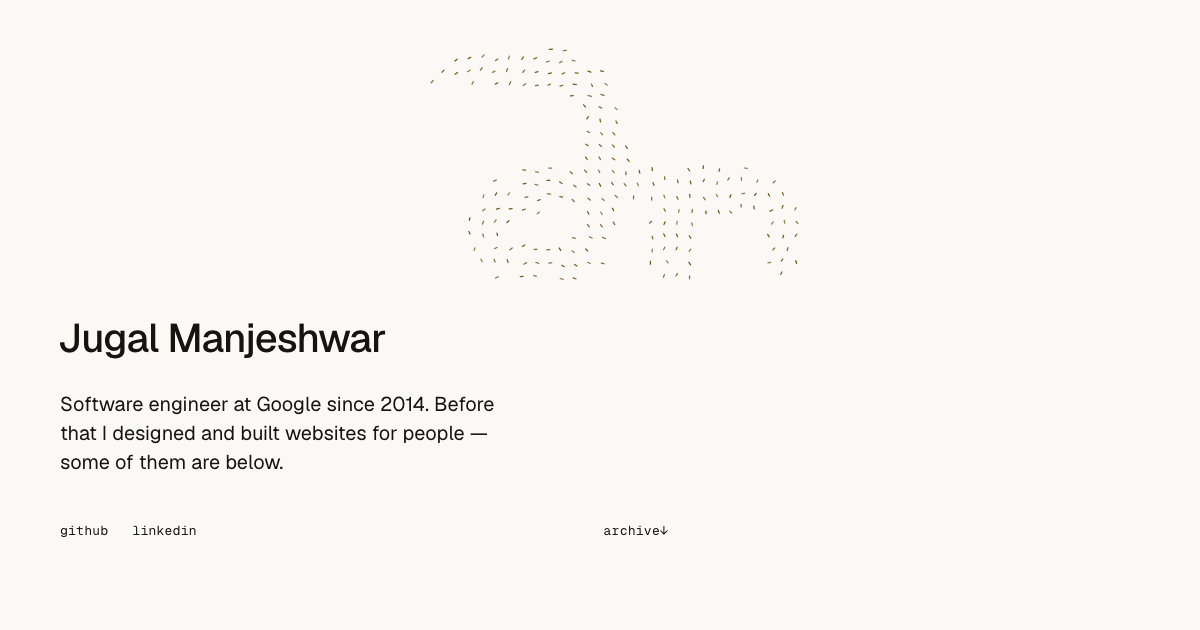
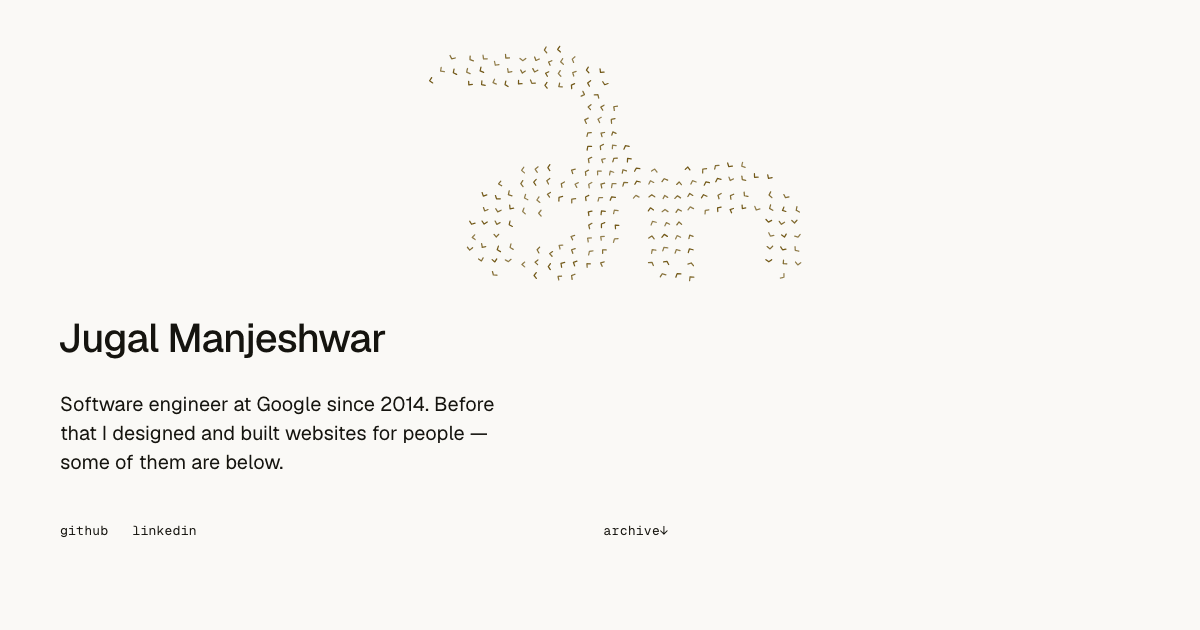
Birds, not strokes — and fix the vanishing-on-hover bug
The renderer's opacity buckets dropped any boid whose near-pointer boost
capped at exactly 1.0 (o >= hi excluded it from the last bucket), which made
birds close to the cursor disappear instead of fleeing. Clamp to 0.999.

Each boid now draws as a baseless triangle — head at its position, two wing
arms swept back — with a fully procedural wingbeat: phase advances with
speed (slow flutter at rest, ~6 Hz fleeing), a skewed waveform gives a quick
downstroke and slower upstroke, arms beat fore/aft around their resting
sweep and foreshorten at the stroke extremes. Perched birds face up with
wings folded. The no-JS still and OG image are regenerated with the same
geometry via the exported wingTips().

diff --git a/index.html b/index.html
@@ -6,7 +6,8 @@
   Hello. You're looking at the source of a very small site with a lot of care in it.
 
   There are three files that matter: this one, css/style.css, and js/main.js.
-  js/flock.js is the flock — a boids simulation drawn as ink strokes — and it
+  js/flock.js is the flock — a boids simulation drawn as small birds, each a
+  baseless triangle with a procedural wingbeat — and it
   runs inside a Worker on an OffscreenCanvas so scrolling never waits on it.
   The rules are separation, alignment, cohesion, and you.
 
@@ -49,7 +50,7 @@
 <canvas id="flock" aria-hidden="true"></canvas>
 <!-- Without script, a still of a seeded flock so the page is never blank. -->
 <!--STILL-->
-<svg class="still" viewBox="0 0 1440 900" preserveAspectRatio="xMidYMid slice" aria-hidden="true" focusable="false"><line x1="929.9" y1="264.0" x2="931.9" y2="261.8" opacity="0.75"/><line x1="604.4" y1="293.6" x2="606.5" y2="295.2" opacity="0.95"/><line x1="775.9" y1="223.8" x2="774.3" y2="225.9" opacity="0.94"/><line x1="605.9" y1="122.5" x2="605.0" y2="125.1" opacity="0.92"/><line x1="689.4" y1="122.6" x2="689.5" y2="125.3" opacity="0.85"/><line x1="790.9" y1="238.7" x2="788.2" y2="239.7" opacity="0.78"/><line x1="723.5" y1="251.4" x2="722.1" y2="253.9" opacity="0.71"/><line x1="914.2" y1="254.3" x2="913.8" y2="251.5" opacity="0.83"/><line x1="833.6" y1="253.1" x2="830.9" y2="252.5" opacity="0.85"/><line x1="884.8" y1="269.0" x2="883.6" y2="266.3" opacity="0.93"/><line x1="650.4" y1="305.6" x2="649.9" y2="303.1" opacity="0.81"/><line x1="690.0" y1="310.9" x2="689.0" y2="313.6" opacity="0.71"/><line x1="635.8" y1="335.2" x2="634.0" y2="337.0" opacity="0.91"/><line x1="719.5" y1="224.1" x2="717.2" y2="225.6" opacity="0.74"/><line x1="593.7" y1="264.3" x2="596.6" y2="264.7" opacity="0.69"/><line x1="819.1" y1="267.1" x2="816.3" y2="268.0" opacity="0.83"/><line x1="915.6" y1="336.0" x2="918.0" y2="334.2" opacity="0.82"/><line x1="706.1" y1="136.7" x2="705.6" y2="139.5" opacity="0.78"/><line x1="706.5" y1="108.6" x2="704.7" y2="110.5" opacity="0.91"/><line x1="710.6" y1="293.7" x2="710.2" y2="296.4" opacity="0.68"/><line x1="634.8" y1="308.2" x2="637.5" y2="308.0" opacity="0.93"/><line x1="791.1" y1="252.1" x2="789.2" y2="254.1" opacity="0.70"/><line x1="663.2" y1="84.0" x2="660.8" y2="85.4" opacity="0.94"/><line x1="845.7" y1="238.6" x2="842.9" y2="239.3" opacity="0.74"/><line x1="720.2" y1="236.3" x2="718.1" y2="238.0" opacity="0.88"/><line x1="804.2" y1="295.2" x2="802.1" y2="296.9" opacity="0.95"/><line x1="873.4" y1="252.3" x2="873.0" y2="249.5" opacity="0.69"/><line x1="920.0" y1="306.9" x2="922.3" y2="305.6" opacity="0.75"/><line x1="674.7" y1="99.0" x2="673.6" y2="101.6" opacity="0.72"/><line x1="778.4" y1="236.2" x2="775.8" y2="237.3" opacity="0.88"/><line x1="719.5" y1="108.8" x2="718.2" y2="111.1" opacity="0.90"/><line x1="709.5" y1="251.4" x2="708.4" y2="253.9" opacity="0.77"/><line x1="707.8" y1="280.1" x2="706.1" y2="282.4" opacity="0.79"/><line x1="706.6" y1="196.8" x2="705.0" y2="199.1" opacity="0.76"/><line x1="690.4" y1="109.0" x2="687.8" y2="110.4" opacity="0.91"/><line x1="651.8" y1="219.9" x2="653.8" y2="222.0" opacity="0.72"/><line x1="737.5" y1="252.2" x2="735.6" y2="254.2" opacity="0.74"/><line x1="848.8" y1="224.4" x2="845.9" y2="224.8" opacity="0.93"/><line x1="717.9" y1="169.6" x2="715.2" y2="170.1" opacity="0.95"/><line x1="778.2" y1="295.4" x2="777.1" y2="298.0" opacity="0.80"/><line x1="720.0" y1="211.0" x2="718.8" y2="213.4" opacity="0.76"/><line x1="834.3" y1="268.9" x2="831.6" y2="270.3" opacity="0.92"/><line x1="692.7" y1="293.2" x2="693.0" y2="296.1" opacity="0.69"/><line x1="581.7" y1="306.3" x2="584.1" y2="307.5" opacity="0.74"/><line x1="916.1" y1="322.2" x2="918.1" y2="320.1" opacity="0.78"/><line x1="733.3" y1="226.4" x2="731.5" y2="228.6" opacity="0.71"/><line x1="777.4" y1="255.1" x2="775.1" y2="257.1" opacity="0.76"/><line x1="929.4" y1="280.5" x2="929.5" y2="277.8" opacity="0.74"/><line x1="590.4" y1="113.2" x2="591.8" y2="115.5" opacity="0.81"/><line x1="677.2" y1="321.3" x2="674.7" y2="322.5" opacity="0.84"/><line x1="819.8" y1="280.3" x2="817.1" y2="281.2" opacity="0.71"/><line x1="776.3" y1="282.7" x2="774.3" y2="284.9" opacity="0.80"/><line x1="637.6" y1="321.4" x2="635.1" y2="322.7" opacity="0.73"/><line x1="589.7" y1="323.8" x2="590.9" y2="326.2" opacity="0.71"/><line x1="633.2" y1="112.4" x2="631.4" y2="114.7" opacity="0.84"/><line x1="790.6" y1="282.5" x2="788.3" y2="284.2" opacity="0.93"/><line x1="930.0" y1="294.0" x2="931.9" y2="291.9" opacity="0.77"/><line x1="805.3" y1="267.2" x2="803.0" y2="268.9" opacity="0.72"/><line x1="735.6" y1="195.8" x2="733.6" y2="197.7" opacity="0.84"/><line x1="875.4" y1="223.8" x2="873.6" y2="221.6" opacity="0.71"/><line x1="917.2" y1="293.8" x2="919.7" y2="292.7" opacity="0.93"/><line x1="790.0" y1="311.6" x2="787.9" y2="313.5" opacity="0.70"/><line x1="592.1" y1="98.6" x2="592.6" y2="101.3" opacity="0.72"/><line x1="663.7" y1="226.1" x2="665.1" y2="228.5" opacity="0.72"/><line x1="605.4" y1="95.8" x2="605.2" y2="98.5" opacity="0.83"/><line x1="703.5" y1="155.7" x2="700.7" y2="156.6" opacity="0.90"/><line x1="690.3" y1="324.1" x2="688.1" y2="326.1" opacity="0.86"/><line x1="900.8" y1="294.8" x2="902.7" y2="292.6" opacity="0.85"/><line x1="606.0" y1="306.7" x2="608.9" y2="307.1" opacity="0.74"/><line x1="618.8" y1="126.8" x2="617.5" y2="129.5" opacity="0.79"/><line x1="803.7" y1="340.1" x2="801.6" y2="342.3" opacity="0.83"/><line x1="649.1" y1="122.5" x2="647.7" y2="125.0" opacity="0.79"/><line x1="562.3" y1="96.8" x2="562.2" y2="99.7" opacity="0.86"/><line x1="692.7" y1="336.8" x2="692.0" y2="339.5" opacity="0.83"/><line x1="818.5" y1="293.9" x2="817.4" y2="296.4" opacity="0.87"/><line x1="847.8" y1="266.8" x2="845.6" y2="265.2" opacity="0.89"/><line x1="719.1" y1="137.7" x2="718.1" y2="140.2" opacity="0.76"/><line x1="903.8" y1="278.2" x2="904.4" y2="275.4" opacity="0.75"/><line x1="650.8" y1="319.5" x2="648.9" y2="321.3" opacity="0.87"/><line x1="648.3" y1="109.5" x2="648.1" y2="112.2" opacity="0.95"/><line x1="930.0" y1="323.4" x2="932.7" y2="323.8" opacity="0.90"/><line x1="817.9" y1="336.5" x2="817.8" y2="339.3" opacity="0.83"/><line x1="604.7" y1="278.5" x2="607.5" y2="278.1" opacity="0.70"/><line x1="679.5" y1="334.7" x2="678.3" y2="337.1" opacity="0.70"/><line x1="817.7" y1="222.8" x2="815.2" y2="223.6" opacity="0.83"/><line x1="606.5" y1="232.3" x2="609.5" y2="232.6" opacity="0.78"/><line x1="650.2" y1="267.0" x2="650.9" y2="269.8" opacity="0.71"/><line x1="663.3" y1="253.8" x2="665.2" y2="255.7" opacity="0.79"/><line x1="858.3" y1="239.5" x2="856.1" y2="237.8" opacity="0.84"/><line x1="762.1" y1="235.6" x2="761.4" y2="238.3" opacity="0.72"/><line x1="638.5" y1="221.8" x2="640.6" y2="223.8" opacity="0.78"/><line x1="661.0" y1="127.5" x2="658.9" y2="129.4" opacity="0.75"/><line x1="664.5" y1="305.9" x2="663.7" y2="308.4" opacity="0.80"/><line x1="590.5" y1="251.4" x2="592.4" y2="253.4" opacity="0.71"/><line x1="720.2" y1="183.5" x2="717.7" y2="185.2" opacity="0.75"/><line x1="886.3" y1="252.2" x2="886.0" y2="249.3" opacity="0.93"/><line x1="578.0" y1="278.3" x2="580.6" y2="277.0" opacity="0.87"/><line x1="733.4" y1="153.1" x2="730.9" y2="154.7" opacity="0.70"/><line x1="662.5" y1="239.3" x2="664.0" y2="241.7" opacity="0.94"/><line x1="778.0" y1="308.6" x2="776.3" y2="310.9" opacity="0.69"/><line x1="661.9" y1="109.3" x2="661.3" y2="112.0" opacity="0.92"/><line x1="674.7" y1="112.2" x2="673.3" y2="114.7" opacity="0.81"/><line x1="632.7" y1="99.5" x2="631.5" y2="102.1" opacity="0.76"/><line x1="636.8" y1="235.0" x2="638.0" y2="237.6" opacity="0.93"/><line x1="636.1" y1="125.1" x2="634.9" y2="127.7" opacity="0.69"/><line x1="719.9" y1="198.0" x2="717.9" y2="199.9" opacity="0.76"/><line x1="791.0" y1="296.6" x2="789.0" y2="298.5" opacity="0.86"/><line x1="603.9" y1="108.9" x2="605.5" y2="111.2" opacity="0.74"/><line x1="860.2" y1="267.1" x2="857.9" y2="265.7" opacity="0.69"/><line x1="563.3" y1="110.0" x2="563.4" y2="112.8" opacity="0.95"/><line x1="791.4" y1="265.9" x2="788.9" y2="266.9" opacity="0.76"/><line x1="603.2" y1="322.5" x2="605.6" y2="323.5" opacity="0.81"/><line x1="617.7" y1="100.5" x2="616.8" y2="103.2" opacity="0.72"/><line x1="662.9" y1="325.6" x2="661.0" y2="327.8" opacity="0.77"/><line x1="635.5" y1="265.5" x2="638.4" y2="265.3" opacity="0.84"/><line x1="794.7" y1="323.8" x2="792.5" y2="325.3" opacity="0.71"/><line x1="677.0" y1="234.0" x2="678.0" y2="236.6" opacity="0.77"/><line x1="804.7" y1="251.7" x2="803.7" y2="254.4" opacity="0.84"/><line x1="871.9" y1="268.8" x2="870.6" y2="266.1" opacity="0.75"/><line x1="758.2" y1="255.3" x2="755.7" y2="256.4" opacity="0.77"/><line x1="661.7" y1="96.5" x2="660.7" y2="99.1" opacity="0.73"/><line x1="916.6" y1="267.9" x2="917.5" y2="265.1" opacity="0.95"/><line x1="724.5" y1="295.2" x2="724.1" y2="297.9" opacity="0.76"/><line x1="904.3" y1="264.9" x2="904.4" y2="262.1" opacity="0.80"/><line x1="608.1" y1="264.5" x2="610.9" y2="264.6" opacity="0.87"/><line x1="675.9" y1="124.7" x2="676.0" y2="127.5" opacity="0.82"/><line x1="817.4" y1="254.2" x2="814.9" y2="255.5" opacity="0.88"/><line x1="621.8" y1="264.0" x2="624.7" y2="263.8" opacity="0.86"/><line x1="676.8" y1="85.6" x2="674.8" y2="87.6" opacity="0.71"/><line x1="591.8" y1="281.1" x2="594.2" y2="282.6" opacity="0.79"/><line x1="762.2" y1="222.2" x2="759.7" y2="223.8" opacity="0.94"/><line x1="620.8" y1="305.3" x2="622.2" y2="307.7" opacity="0.78"/><line x1="860.1" y1="253.9" x2="857.2" y2="253.5" opacity="0.94"/><line x1="705.6" y1="325.8" x2="703.7" y2="327.9" opacity="0.70"/><line x1="900.1" y1="253.1" x2="899.5" y2="250.4" opacity="0.87"/><line x1="645.9" y1="97.3" x2="645.6" y2="100.0" opacity="0.89"/><line x1="803.6" y1="281.3" x2="801.4" y2="283.1" opacity="0.71"/><line x1="733.8" y1="268.3" x2="731.3" y2="269.2" opacity="0.93"/><line x1="578.1" y1="125.8" x2="577.7" y2="128.7" opacity="0.74"/><line x1="902.9" y1="319.8" x2="905.5" y2="318.5" opacity="0.70"/><line x1="871.4" y1="238.0" x2="869.2" y2="236.0" opacity="0.73"/><line x1="535.5" y1="124.8" x2="535.8" y2="127.6" opacity="0.74"/><line x1="676.9" y1="255.2" x2="677.2" y2="258.0" opacity="0.87"/><line x1="603.7" y1="252.1" x2="606.5" y2="252.5" opacity="0.86"/><line x1="649.6" y1="336.0" x2="650.1" y2="333.4" opacity="0.74"/><line x1="820.2" y1="323.0" x2="819.9" y2="325.8" opacity="0.86"/><line x1="590.4" y1="295.7" x2="592.6" y2="297.4" opacity="0.76"/><line x1="747.9" y1="224.8" x2="745.6" y2="226.7" opacity="0.84"/><line x1="905.4" y1="233.6" x2="904.1" y2="231.1" opacity="0.73"/><line x1="548.7" y1="110.7" x2="548.6" y2="113.5" opacity="0.80"/><line x1="733.4" y1="284.0" x2="731.4" y2="285.9" opacity="0.79"/><line x1="720.6" y1="266.4" x2="719.1" y2="269.0" opacity="0.74"/><line x1="818.6" y1="236.0" x2="816.0" y2="236.4" opacity="0.90"/><line x1="650.9" y1="250.3" x2="651.2" y2="253.2" opacity="0.78"/><line x1="733.3" y1="181.3" x2="732.9" y2="184.0" opacity="0.76"/><line x1="707.2" y1="238.0" x2="705.7" y2="240.4" opacity="0.78"/><line x1="704.1" y1="170.6" x2="701.3" y2="171.6" opacity="0.87"/><line x1="719.6" y1="325.6" x2="718.1" y2="328.1" opacity="0.84"/><line x1="705.7" y1="311.4" x2="704.1" y2="313.6" opacity="0.91"/><line x1="706.9" y1="266.9" x2="705.5" y2="269.5" opacity="0.78"/><line x1="720.3" y1="282.5" x2="718.5" y2="284.8" opacity="0.83"/><line x1="832.1" y1="239.8" x2="829.2" y2="239.7" opacity="0.77"/><line x1="608.5" y1="334.6" x2="611.1" y2="335.7" opacity="0.81"/><line x1="789.9" y1="340.0" x2="787.9" y2="342.2" opacity="0.79"/><line x1="706.6" y1="122.8" x2="704.1" y2="124.4" opacity="0.76"/><line x1="749.4" y1="195.3" x2="748.1" y2="197.9" opacity="0.89"/><line x1="803.0" y1="311.0" x2="800.3" y2="311.4" opacity="0.76"/><line x1="685.5" y1="140.6" x2="683.2" y2="142.2" opacity="0.89"/><line x1="749.3" y1="209.3" x2="747.3" y2="211.4" opacity="0.90"/><line x1="578.0" y1="96.3" x2="579.2" y2="98.8" opacity="0.89"/><line x1="719.2" y1="151.3" x2="716.9" y2="153.0" opacity="0.81"/><line x1="691.7" y1="235.6" x2="690.4" y2="238.2" opacity="0.84"/><line x1="650.1" y1="233.6" x2="652.2" y2="235.4" opacity="0.74"/><line x1="776.5" y1="324.8" x2="774.5" y2="326.5" opacity="0.94"/><line x1="616.6" y1="113.7" x2="616.3" y2="116.7" opacity="0.85"/><line x1="704.5" y1="184.0" x2="702.1" y2="185.6" opacity="0.77"/><line x1="677.0" y1="307.9" x2="676.5" y2="310.5" opacity="0.87"/><line x1="687.4" y1="96.4" x2="685.4" y2="98.2" opacity="0.76"/><line x1="735.2" y1="209.4" x2="733.3" y2="211.5" opacity="0.80"/><line x1="832.4" y1="226.6" x2="829.7" y2="226.3" opacity="0.94"/><line x1="705.2" y1="212.2" x2="703.3" y2="214.3" opacity="0.94"/><line x1="732.5" y1="239.8" x2="730.8" y2="242.1" opacity="0.78"/><line x1="576.4" y1="294.0" x2="579.0" y2="293.1" opacity="0.93"/><line x1="617.2" y1="251.1" x2="620.0" y2="251.0" opacity="0.69"/><line x1="720.3" y1="123.7" x2="717.6" y2="124.9" opacity="0.69"/><line x1="846.3" y1="253.8" x2="843.8" y2="252.5" opacity="0.70"/><line x1="637.6" y1="248.9" x2="638.9" y2="251.3" opacity="0.78"/><line x1="886.9" y1="235.2" x2="884.1" y2="234.3" opacity="0.70"/><line x1="691.9" y1="250.4" x2="692.8" y2="253.1" opacity="0.82"/><line x1="705.9" y1="225.0" x2="705.0" y2="227.6" opacity="0.81"/><line x1="616.8" y1="323.6" x2="619.1" y2="325.0" opacity="0.86"/><line x1="691.3" y1="222.1" x2="691.6" y2="225.1" opacity="0.81"/><line x1="618.5" y1="277.9" x2="621.4" y2="277.8" opacity="0.87"/><line x1="805.5" y1="235.2" x2="802.8" y2="235.8" opacity="0.76"/><line x1="746.0" y1="239.1" x2="744.1" y2="241.2" opacity="0.82"/><line x1="916.1" y1="281.1" x2="916.6" y2="278.4" opacity="0.71"/><line x1="733.9" y1="167.4" x2="731.3" y2="168.9" opacity="0.76"/><line x1="816.6" y1="310.5" x2="814.8" y2="312.8" opacity="0.72"/><line x1="577.6" y1="109.4" x2="578.9" y2="111.9" opacity="0.69"/><line x1="906.5" y1="306.4" x2="907.5" y2="303.8" opacity="0.76"/></svg>
+<svg class="still" viewBox="0 0 1440 900" preserveAspectRatio="xMidYMid slice" aria-hidden="true" focusable="false"><polyline points="673.5,106.3 670.8,108.9 672.8,112.2" opacity="0.75"/><polyline points="911.2,293.3 912.1,289.9 908.6,289.4" opacity="0.95"/><polyline points="631.9,122.2 628.6,123.8 630.4,126.9" opacity="0.94"/><polyline points="855.3,264.2 855.0,260.7 851.5,261.3" opacity="0.92"/><polyline points="619.6,273.8 616.3,275.3 616.8,279.0" opacity="0.85"/><polyline points="737.6,219.0 739.5,221.9 742.2,219.6" opacity="0.78"/><polyline points="617.8,110.8 615.0,108.4 612.6,111.3" opacity="0.71"/><polyline points="696.0,180.2 699.5,180.5 700.9,177.3" opacity="0.83"/><polyline points="913.1,319.8 913.6,316.3 910.0,316.1" opacity="0.85"/><polyline points="750.3,233.9 753.6,235.5 755.9,232.7" opacity="0.93"/><polyline points="591.8,302.1 588.1,302.4 588.6,306.0" opacity="0.81"/><polyline points="615.5,323.3 612.7,321.1 609.7,323.1" opacity="0.71"/><polyline points="914.4,263.0 912.8,259.9 909.8,261.8" opacity="0.91"/><polyline points="808.7,263.4 811.9,265.3 814.3,262.5" opacity="0.74"/><polyline points="724.7,231.3 728.4,231.9 729.5,228.4" opacity="0.69"/><polyline points="713.1,175.5 714.5,178.8 717.6,177.1" opacity="0.83"/><polyline points="784.8,330.6 784.8,334.4 788.4,335.5" opacity="0.82"/><polyline points="815.8,329.1 815.0,332.8 818.7,333.8" opacity="0.78"/><polyline points="800.7,328.5 801.4,332.1 805.2,332.4" opacity="0.91"/><polyline points="648.5,221.6 645.7,219.2 643.1,221.8" opacity="0.68"/><polyline points="782.1,290.0 784.3,293.1 787.6,291.3" opacity="0.93"/><polyline points="799.9,301.2 799.6,305.1 803.4,305.7" opacity="0.70"/><polyline points="535.6,120.5 532.0,121.4 532.8,125.0" opacity="0.94"/><polyline points="924.3,293.3 925.6,290.0 923.0,287.6" opacity="0.74"/><polyline points="813.9,300.0 813.4,303.8 817.2,304.6" opacity="0.88"/><polyline points="867.8,265.2 868.0,261.6 864.5,261.9" opacity="0.95"/><polyline points="771.2,275.4 773.3,278.4 776.7,276.8" opacity="0.69"/><polyline points="913.7,249.4 913.9,245.8 910.5,244.4" opacity="0.75"/><polyline points="828.8,268.7 827.8,265.1 824.0,265.3" opacity="0.72"/><polyline points="829.7,234.4 828.0,231.1 824.4,231.9" opacity="0.88"/><polyline points="725.1,245.7 727.3,248.6 730.6,247.1" opacity="0.90"/><polyline points="913.4,277.0 912.3,273.5 908.7,274.3" opacity="0.77"/><polyline points="671.7,234.4 672.2,230.9 669.0,229.3" opacity="0.79"/><polyline points="855.3,250.6 854.8,247.0 851.2,246.4" opacity="0.76"/><polyline points="675.3,321.0 673.5,317.7 670.0,319.2" opacity="0.91"/><polyline points="576.7,106.5 573.1,107.8 573.7,111.6" opacity="0.72"/><polyline points="675.0,94.4 671.7,96.0 672.8,99.6" opacity="0.74"/><polyline points="662.2,320.3 659.8,317.7 656.4,319.1" opacity="0.93"/><polyline points="823.8,252.8 827.1,251.1 826.0,247.7" opacity="0.95"/><polyline points="843.7,251.8 841.6,248.7 838.0,249.9" opacity="0.80"/><polyline points="603.2,332.7 599.7,333.2 599.1,336.6" opacity="0.76"/><polyline points="576.2,278.7 573.7,275.9 570.4,277.6" opacity="0.92"/><polyline points="899.0,292.6 899.1,288.9 895.7,287.8" opacity="0.69"/><polyline points="730.3,294.4 730.8,290.8 727.7,289.2" opacity="0.74"/><polyline points="645.1,122.0 642.3,124.4 643.8,127.7" opacity="0.78"/><polyline points="910.5,337.3 911.2,333.7 907.9,332.0" opacity="0.71"/><polyline points="769.3,289.6 770.7,293.0 774.2,291.8" opacity="0.76"/><polyline points="853.7,237.6 853.2,234.0 849.7,234.9" opacity="0.74"/><polyline points="587.6,323.0 585.3,320.3 582.9,322.9" opacity="0.81"/><polyline points="648.4,305.8 645.7,303.4 642.5,305.2" opacity="0.84"/><polyline points="703.6,293.7 703.2,290.1 699.6,290.9" opacity="0.71"/><polyline points="766.8,253.0 770.2,251.7 769.9,248.1" opacity="0.80"/><polyline points="812.9,238.3 813.5,234.5 809.8,233.6" opacity="0.73"/><polyline points="748.8,254.5 752.1,253.0 751.6,249.5" opacity="0.71"/><polyline points="646.6,112.2 643.3,110.5 641.7,113.8" opacity="0.84"/><polyline points="700.5,268.3 701.4,264.6 697.8,263.5" opacity="0.93"/><polyline points="724.8,175.6 727.6,177.8 729.4,174.7" opacity="0.77"/><polyline points="927.7,320.9 927.4,317.1 923.7,317.4" opacity="0.72"/><polyline points="898.8,263.9 899.7,260.4 896.6,258.7" opacity="0.84"/><polyline points="801.0,287.8 801.1,291.6 804.8,291.5" opacity="0.71"/><polyline points="696.4,194.5 699.9,193.5 699.5,189.8" opacity="0.93"/><polyline points="726.3,268.9 727.7,265.5 724.3,263.9" opacity="0.70"/><polyline points="621.2,302.6 617.6,303.3 617.3,306.9" opacity="0.72"/><polyline points="722.5,192.8 725.8,194.1 726.7,190.7" opacity="0.72"/><polyline points="648.5,96.8 644.9,96.6 644.8,100.3" opacity="0.83"/><polyline points="616.3,265.2 613.8,262.6 611.4,265.3" opacity="0.90"/><polyline points="782.8,318.4 785.7,320.4 788.6,318.4" opacity="0.86"/><polyline points="687.2,325.7 685.4,322.5 682.2,324.4" opacity="0.85"/><polyline points="929.9,305.2 927.4,302.7 924.3,304.5" opacity="0.74"/><polyline points="809.2,317.6 812.0,319.7 814.9,317.7" opacity="0.79"/><polyline points="715.3,311.1 715.4,307.4 711.7,307.6" opacity="0.83"/><polyline points="717.0,146.7 716.8,150.4 720.5,150.5" opacity="0.79"/><polyline points="719.1,120.9 716.3,123.2 717.8,126.5" opacity="0.86"/><polyline points="688.6,291.6 686.1,289.1 683.9,291.9" opacity="0.83"/><polyline points="703.8,119.1 702.3,122.5 705.4,124.5" opacity="0.87"/><polyline points="730.1,280.8 731.3,277.5 727.9,276.6" opacity="0.89"/><polyline points="655.3,236.5 657.8,233.9 655.6,231.0" opacity="0.76"/><polyline points="591.9,94.2 588.2,94.8 588.5,98.6" opacity="0.75"/><polyline points="617.3,119.8 614.5,121.9 615.5,125.4" opacity="0.87"/><polyline points="674.8,80.5 671.8,83.0 673.9,86.3" opacity="0.95"/><polyline points="716.7,108.3 713.4,109.9 715.1,113.2" opacity="0.90"/><polyline points="814.5,286.2 814.0,289.8 817.6,289.8" opacity="0.83"/><polyline points="686.1,92.4 684.1,95.4 686.4,98.2" opacity="0.70"/><polyline points="688.0,105.5 685.4,108.1 688.1,110.7" opacity="0.70"/><polyline points="689.5,305.0 686.3,303.2 684.6,306.5" opacity="0.83"/><polyline points="899.6,248.9 899.0,245.3 895.4,245.1" opacity="0.78"/><polyline points="633.9,97.3 630.2,96.9 628.9,100.3" opacity="0.71"/><polyline points="780.1,232.9 783.3,234.7 785.8,232.1" opacity="0.79"/><polyline points="796.7,275.9 798.7,278.9 801.5,276.7" opacity="0.84"/><polyline points="604.9,119.9 601.2,120.2 601.6,123.9" opacity="0.72"/><polyline points="682.3,220.0 685.8,220.9 686.6,217.4" opacity="0.78"/><polyline points="696.2,134.8 697.8,138.1 701.0,136.4" opacity="0.75"/><polyline points="703.6,146.1 703.6,149.7 707.2,149.5" opacity="0.80"/><polyline points="781.9,267.3 784.6,264.9 782.9,261.7" opacity="0.71"/><polyline points="683.1,236.9 685.3,234.1 682.3,232.1" opacity="0.75"/><polyline points="647.6,233.2 643.9,232.7 642.6,236.2" opacity="0.93"/><polyline points="668.7,252.2 670.3,249.0 667.6,246.6" opacity="0.87"/><polyline points="604.1,99.2 600.4,98.0 599.0,101.5" opacity="0.70"/><polyline points="699.4,255.6 699.1,252.1 695.6,251.2" opacity="0.94"/><polyline points="647.3,249.6 646.0,246.1 642.3,247.1" opacity="0.69"/><polyline points="717.3,280.2 717.3,276.7 714.0,275.4" opacity="0.92"/><polyline points="795.5,254.6 797.7,251.7 795.3,249.0" opacity="0.81"/><polyline points="710.1,134.9 711.7,138.3 715.3,137.1" opacity="0.76"/><polyline points="604.0,249.3 601.1,247.2 598.1,249.4" opacity="0.93"/><polyline points="785.3,274.9 786.2,278.3 789.5,277.2" opacity="0.69"/><polyline points="684.7,339.5 683.2,336.1 679.6,336.8" opacity="0.76"/><polyline points="655.7,222.7 658.6,220.9 657.7,217.5" opacity="0.86"/><polyline points="636.8,261.6 633.2,261.5 631.8,264.8" opacity="0.74"/><polyline points="725.4,215.8 726.6,219.1 729.8,217.6" opacity="0.69"/><polyline points="739.9,206.8 743.4,206.2 742.5,202.8" opacity="0.95"/><polyline points="727.2,159.1 728.1,162.8 731.8,162.5" opacity="0.76"/><polyline points="556.0,97.4 552.3,97.8 551.7,101.5" opacity="0.81"/><polyline points="712.7,254.5 713.0,250.9 709.6,249.6" opacity="0.72"/><polyline points="895.2,308.5 897.1,305.3 894.1,303.0" opacity="0.77"/><polyline points="618.1,248.3 614.4,248.5 614.1,252.2" opacity="0.84"/><polyline points="782.7,246.2 785.4,248.4 787.3,245.4" opacity="0.71"/><polyline points="737.3,232.9 740.7,234.4 743.0,231.5" opacity="0.77"/><polyline points="729.4,145.3 730.2,148.9 733.8,148.1" opacity="0.84"/><polyline points="807.1,252.1 810.7,251.5 810.0,248.0" opacity="0.75"/><polyline points="925.2,280.3 924.9,276.7 921.3,277.0" opacity="0.77"/><polyline points="580.6,289.2 577.0,288.9 577.1,292.5" opacity="0.73"/><polyline points="901.0,319.6 897.5,319.0 896.0,322.2" opacity="0.95"/><polyline points="720.0,323.2 719.0,319.9 715.8,321.2" opacity="0.76"/><polyline points="606.5,231.4 604.0,228.9 601.9,231.7" opacity="0.80"/><polyline points="607.8,304.1 604.1,303.4 602.7,306.8" opacity="0.87"/><polyline points="699.9,159.5 700.8,163.1 704.5,162.5" opacity="0.82"/><polyline points="878.4,235.6 879.2,232.1 875.7,231.4" opacity="0.88"/><polyline points="916.2,305.7 914.2,302.9 910.9,303.9" opacity="0.86"/><polyline points="703.7,308.1 702.2,304.8 698.6,305.0" opacity="0.71"/><polyline points="603.7,266.1 600.8,263.7 598.1,266.3" opacity="0.79"/><polyline points="714.2,266.8 715.3,263.3 711.8,262.1" opacity="0.94"/><polyline points="795.7,265.6 799.2,264.6 798.5,261.0" opacity="0.78"/><polyline points="575.3,126.4 572.2,124.5 570.7,127.8" opacity="0.94"/><polyline points="715.9,297.6 715.5,294.0 712.0,294.9" opacity="0.70"/><polyline points="601.4,322.3 599.0,319.7 596.8,322.4" opacity="0.87"/><polyline points="589.5,107.1 586.1,108.9 587.4,112.5" opacity="0.89"/><polyline points="784.6,303.1 786.1,306.6 789.8,305.7" opacity="0.71"/><polyline points="767.0,263.0 769.8,265.4 772.2,262.7" opacity="0.93"/><polyline points="633.3,251.6 631.3,248.3 627.7,249.6" opacity="0.74"/><polyline points="635.0,219.4 631.6,217.8 629.7,221.1" opacity="0.70"/><polyline points="673.4,308.1 671.9,304.9 668.9,306.8" opacity="0.73"/><polyline points="768.7,223.6 771.8,221.4 769.9,218.2" opacity="0.74"/><polyline points="589.7,280.8 586.9,278.4 584.5,281.2" opacity="0.87"/><polyline points="896.0,279.7 896.3,276.1 893.0,274.8" opacity="0.86"/><polyline points="766.9,232.6 769.6,235.0 771.9,232.2" opacity="0.74"/><polyline points="562.2,107.4 558.7,108.5 558.9,112.3" opacity="0.86"/><polyline points="769.1,319.6 771.0,322.5 774.5,321.7" opacity="0.76"/><polyline points="798.0,235.8 799.5,232.5 796.1,231.4" opacity="0.84"/><polyline points="651.1,261.8 647.5,260.8 645.9,264.2" opacity="0.73"/><polyline points="633.1,111.9 630.1,109.9 628.5,113.1" opacity="0.80"/><polyline points="670.6,339.2 669.3,335.8 666.1,337.4" opacity="0.79"/><polyline points="774.2,302.7 773.1,306.3 776.7,307.3" opacity="0.74"/><polyline points="686.2,118.6 684.2,121.6 686.3,124.5" opacity="0.90"/><polyline points="704.9,280.6 704.0,277.0 700.3,276.9" opacity="0.78"/><polyline points="634.1,231.8 630.5,231.1 628.8,234.3" opacity="0.76"/><polyline points="673.8,124.2 670.3,124.0 670.6,127.5" opacity="0.78"/><polyline points="589.6,250.3 586.2,249.0 584.9,252.5" opacity="0.87"/><polyline points="601.3,294.0 599.0,291.3 596.7,293.9" opacity="0.84"/><polyline points="645.8,337.6 643.1,335.2 640.1,337.1" opacity="0.91"/><polyline points="868.3,251.8 868.2,248.1 864.6,247.2" opacity="0.78"/><polyline points="697.2,224.9 699.6,222.4 698.1,219.3" opacity="0.83"/><polyline points="575.5,309.4 572.8,306.9 570.4,309.6" opacity="0.77"/><polyline points="929.4,262.8 927.3,259.9 923.9,260.9" opacity="0.81"/><polyline points="603.3,280.3 600.7,277.7 598.2,280.3" opacity="0.79"/><polyline points="713.0,235.6 715.9,233.2 713.6,230.3" opacity="0.76"/><polyline points="741.0,188.5 742.5,191.9 746.0,191.2" opacity="0.89"/><polyline points="616.2,95.1 612.7,96.2 613.7,99.7" opacity="0.76"/><polyline points="855.4,224.3 853.1,221.3 849.8,223.1" opacity="0.89"/><polyline points="592.2,121.3 588.4,121.9 588.5,125.7" opacity="0.90"/><polyline points="659.8,106.4 656.9,108.5 659.3,111.1" opacity="0.89"/><polyline points="726.3,204.8 729.5,206.2 731.9,203.6" opacity="0.81"/><polyline points="660.4,307.2 659.1,303.9 656.0,305.7" opacity="0.84"/><polyline points="710.5,217.9 712.8,220.6 715.6,218.2" opacity="0.74"/><polyline points="898.0,234.9 896.3,231.7 893.1,233.4" opacity="0.94"/><polyline points="709.0,195.5 712.6,195.2 713.5,191.8" opacity="0.85"/><polyline points="700.8,325.3 700.2,321.8 696.8,322.8" opacity="0.77"/><polyline points="750.8,218.8 753.2,221.5 756.5,220.2" opacity="0.87"/><polyline points="648.5,319.7 645.3,318.4 644.3,321.8" opacity="0.76"/><polyline points="660.9,80.1 658.3,82.5 659.5,85.9" opacity="0.80"/><polyline points="838.7,237.0 840.1,233.6 837.1,231.5" opacity="0.94"/><polyline points="840.3,269.8 841.2,266.2 837.7,264.7" opacity="0.94"/><polyline points="659.2,255.6 657.8,252.4 654.8,254.2" opacity="0.78"/><polyline points="811.5,224.8 808.9,222.6 806.9,225.4" opacity="0.93"/><polyline points="712.9,161.7 713.9,165.4 717.6,164.5" opacity="0.69"/><polyline points="713.0,206.7 716.4,207.6 716.9,204.2" opacity="0.69"/><polyline points="868.2,224.0 866.4,220.7 862.9,222.0" opacity="0.70"/><polyline points="662.0,95.0 658.5,95.5 659.2,99.0" opacity="0.78"/><polyline points="701.1,237.8 702.7,234.7 700.3,232.2" opacity="0.70"/><polyline points="684.2,251.7 685.2,248.2 681.8,246.8" opacity="0.82"/><polyline points="843.2,217.8 840.2,219.5 840.8,222.9" opacity="0.81"/><polyline points="700.4,106.5 699.1,109.8 701.9,112.1" opacity="0.86"/><polyline points="830.7,219.3 827.2,217.8 825.3,221.1" opacity="0.81"/><polyline points="658.7,119.2 656.5,122.0 658.5,125.1" opacity="0.87"/><polyline points="699.6,205.3 703.0,206.7 705.2,203.8" opacity="0.76"/><polyline points="866.4,237.8 866.0,234.3 862.5,233.5" opacity="0.82"/><polyline points="882.4,267.6 881.5,263.9 877.8,264.4" opacity="0.71"/><polyline points="590.3,264.9 587.9,262.1 585.3,264.6" opacity="0.76"/><polyline points="544.9,111.9 541.4,110.8 540.3,114.3" opacity="0.72"/><polyline points="634.9,318.1 632.1,315.9 630.2,319.0" opacity="0.69"/><polyline points="578.6,94.1 575.0,94.6 574.4,98.1" opacity="0.76"/></svg>
 <!--/STILL-->
 
 <header class="hero" id="top">

diff --git a/js/flock.js b/js/flock.js
@@ -89,6 +89,31 @@ export function textPoints(ctx2d, text, font, pitch = 6) {
   return { points, aspect: w / h };
 }
 
+
+/*
+ * A boid is a baseless triangle: head at its position, two wing arms swept
+ * back from the heading. The wingbeat is procedural — phase advances with
+ * speed (see _step) — and shows up two ways, as seen from above:
+ *   sweep: the arms beat fore/aft around their resting angle;
+ *   foreshortening: at the stroke's extremes the wing is out of plane, so
+ *   the arm draws shorter, and mid-stroke it is fully spread.
+ * At rest the beat is a slow flutter; fleeing, it is fast and deep.
+ * Returns [leftTipX, leftTipY, rightTipX, rightTipY].
+ */
+export function wingTips(ux, uy, sp, phase) {
+  const len = 3.6 + Math.min(sp * 0.045, 4.2);
+  const amp = Math.min(1, 0.25 + sp / 110);
+  // Skewed waveform: the downstroke is quicker than the upstroke.
+  const flap = Math.sin(phase + 0.45 * Math.sin(phase));
+  const sweep = 2.3 - flap * 0.42 * amp;                // 108°–156° off the heading
+  const wl = len * (1 - 0.22 * amp * flap * flap);      // slight foreshorten at the extremes
+  const cs = Math.cos(sweep), sn = Math.sin(sweep);
+  return [
+    (ux * cs - uy * sn) * wl, (ux * sn + uy * cs) * wl,
+    (ux * cs + uy * sn) * wl, (-ux * sn + uy * cs) * wl,
+  ];
+}
+
 export class Flock {
   constructor(opts = {}) {
     this.p = { ...DEFAULTS, ...opts.params };
@@ -124,6 +149,7 @@ export class Flock {
     this.vy = grow(this.vy, () => (this.random() - 0.5) * this.p.cruise);
     this.ph = grow(this.ph, () => this.random() * Math.PI * 2); // personal phase
     this.op = grow(this.op, () => 0.55 + this.random() * 0.45);  // personal opacity
+    this.fp = grow(this.fp, () => this.random() * Math.PI * 2);   // wingbeat phase
     this.scare = grow(this.scare, () => 0);                        // seconds of fright left
     const role = new Uint8Array(n); if (this.role) role.set(this.role.subarray(0, Math.min(old, n)));
     this.role = role; // 0 free, 1 perching, 2 tracing
@@ -408,6 +434,8 @@ export class Flock {
   }
 
   // --- Rendering ------------------------------------------------------------
+
+
   // Strokes stretch with speed and shrink to dots at rest, so the flock's mood
   // is legible. Width matches the stem of the body type so text and flock read
   // as one instrument.
@@ -416,9 +444,10 @@ export class Flock {
     ctx.save();
     ctx.scale(dpr, dpr);
     ctx.lineCap = 'round';
+    ctx.lineJoin = 'round';
     ctx.lineWidth = width;
     ctx.strokeStyle = color;
-    const { n, x, y, vx, vy, op } = this;
+    const { n, x, y, vx, vy, op, fp } = this;
     const near = this.pointer.on ? this.pointer : null;
     // Batch by opacity bucket so we set globalAlpha rarely.
     const buckets = 6;
@@ -428,15 +457,17 @@ export class Flock {
       ctx.beginPath();
       for (let i = 0; i < n; i++) {
         let o = op[i];
-        if (near) { const d = Math.hypot(x[i] - near.x, y[i] - near.y); if (d < 220) o = Math.min(1, o + (1 - d / 220) * 0.4); }
+        if (near) { const d = Math.hypot(x[i] - near.x, y[i] - near.y); if (d < 220) o = Math.min(0.999, o + (1 - d / 220) * 0.4); }
         if (o < lo || o >= hi) continue;
         const sp = Math.hypot(vx[i], vy[i]);
-        let len = Math.min(18, 2.5 + sp * 0.085);
         let ux = sp > 0.01 ? vx[i] / sp : Math.cos(this.ph[i]);
         let uy = sp > 0.01 ? vy[i] / sp : Math.sin(this.ph[i]);
-        if (this.role[i] === 1 && sp < 6) { ux = 0; uy = 1; len = 4; } // perched: upright, like a bird on a wire
-        ctx.moveTo(x[i], y[i]);
-        ctx.lineTo(x[i] - ux * len, y[i] - uy * len);
+        let spd = sp, phase = fp[i];
+        if (this.role[i] === 1 && sp < 6) { ux = 0; uy = -1; spd = 0; phase = this.ph[i]; } // perched: facing up, wings folded
+        const [lx, ly, rx, ry] = wingTips(ux, uy, spd, phase);
+        ctx.moveTo(x[i] + lx, y[i] + ly);
+        ctx.lineTo(x[i], y[i]);
+        ctx.lineTo(x[i] + rx, y[i] + ry);
       }
       ctx.stroke();
     }

diff --git a/css/style.css b/css/style.css
@@ -114,7 +114,7 @@ img, svg { display: block; max-width: 100%; height: auto; }
 }
 .still { color: var(--flock); }
 .js .still { display: none; }
-.still line { stroke: currentColor; stroke-linecap: round; stroke-width: 1.25; }
+.still polyline { fill: none; stroke: currentColor; stroke-linecap: round; stroke-linejoin: round; stroke-width: 1.25; }
 
 /* Everything real sits above the canvas, but lets hover through where empty. */
 .hero, main, .site-footer { position: relative; z-index: 1; pointer-events: none; }

diff --git a/DESIGN.md b/DESIGN.md
@@ -9,7 +9,7 @@ six freelance sites from 2012–2014, a footer. Almost no words; the flock does 
 
 ## The flock
 
-A boids simulation (Reynolds, 1986) drawn as ink strokes on a fixed, full-viewport canvas
+A boids simulation (Reynolds, 1986) drawn as small birds on a fixed, full-viewport canvas
 behind the page. It runs in a **Web Worker on an OffscreenCanvas**; the main thread only
 sends small messages (pointer, wind, where home is). Scrolling never waits on it.
 
@@ -29,8 +29,12 @@ sends small messages (pointer, wind, where home is). Scrolling never waits on it
   when faster than 70.
 - **Timestep:** fixed 1/60 s with an accumulator, so 30, 60 and 120 Hz screens see the same
   behaviour. Neighbour search is a uniform grid keyed by perception radius.
-- **Strokes:** length stretches with speed and shrinks to a dot at rest, so the flock's mood
-  is legible. Width 1.25 px, matching the type's stems. Each boid has a personal opacity.
+- **Birds, not strokes:** each boid is a baseless triangle — head at its position, two wing
+  arms swept back from the heading — with a fully procedural wingbeat: the phase advances
+  with speed (a slow flutter at rest, ~6 Hz fleeing), the arms beat fore/aft around their
+  resting sweep, and each arm foreshortens at the stroke's extremes as the wing leaves the
+  plane. Wing length grows a little with speed. Stroke width 1.25 px, matching the type's
+  stems; each boid has a personal opacity. Perched birds face up with wings folded.
 - **It respects the text:** rectangles marked `data-obstacle` (hero text, archive header,
   rows and footer on wide screens) are soft obstacles.
 - **Scroll is wind.** Hover a link and the nearest few boids break off and trace its
